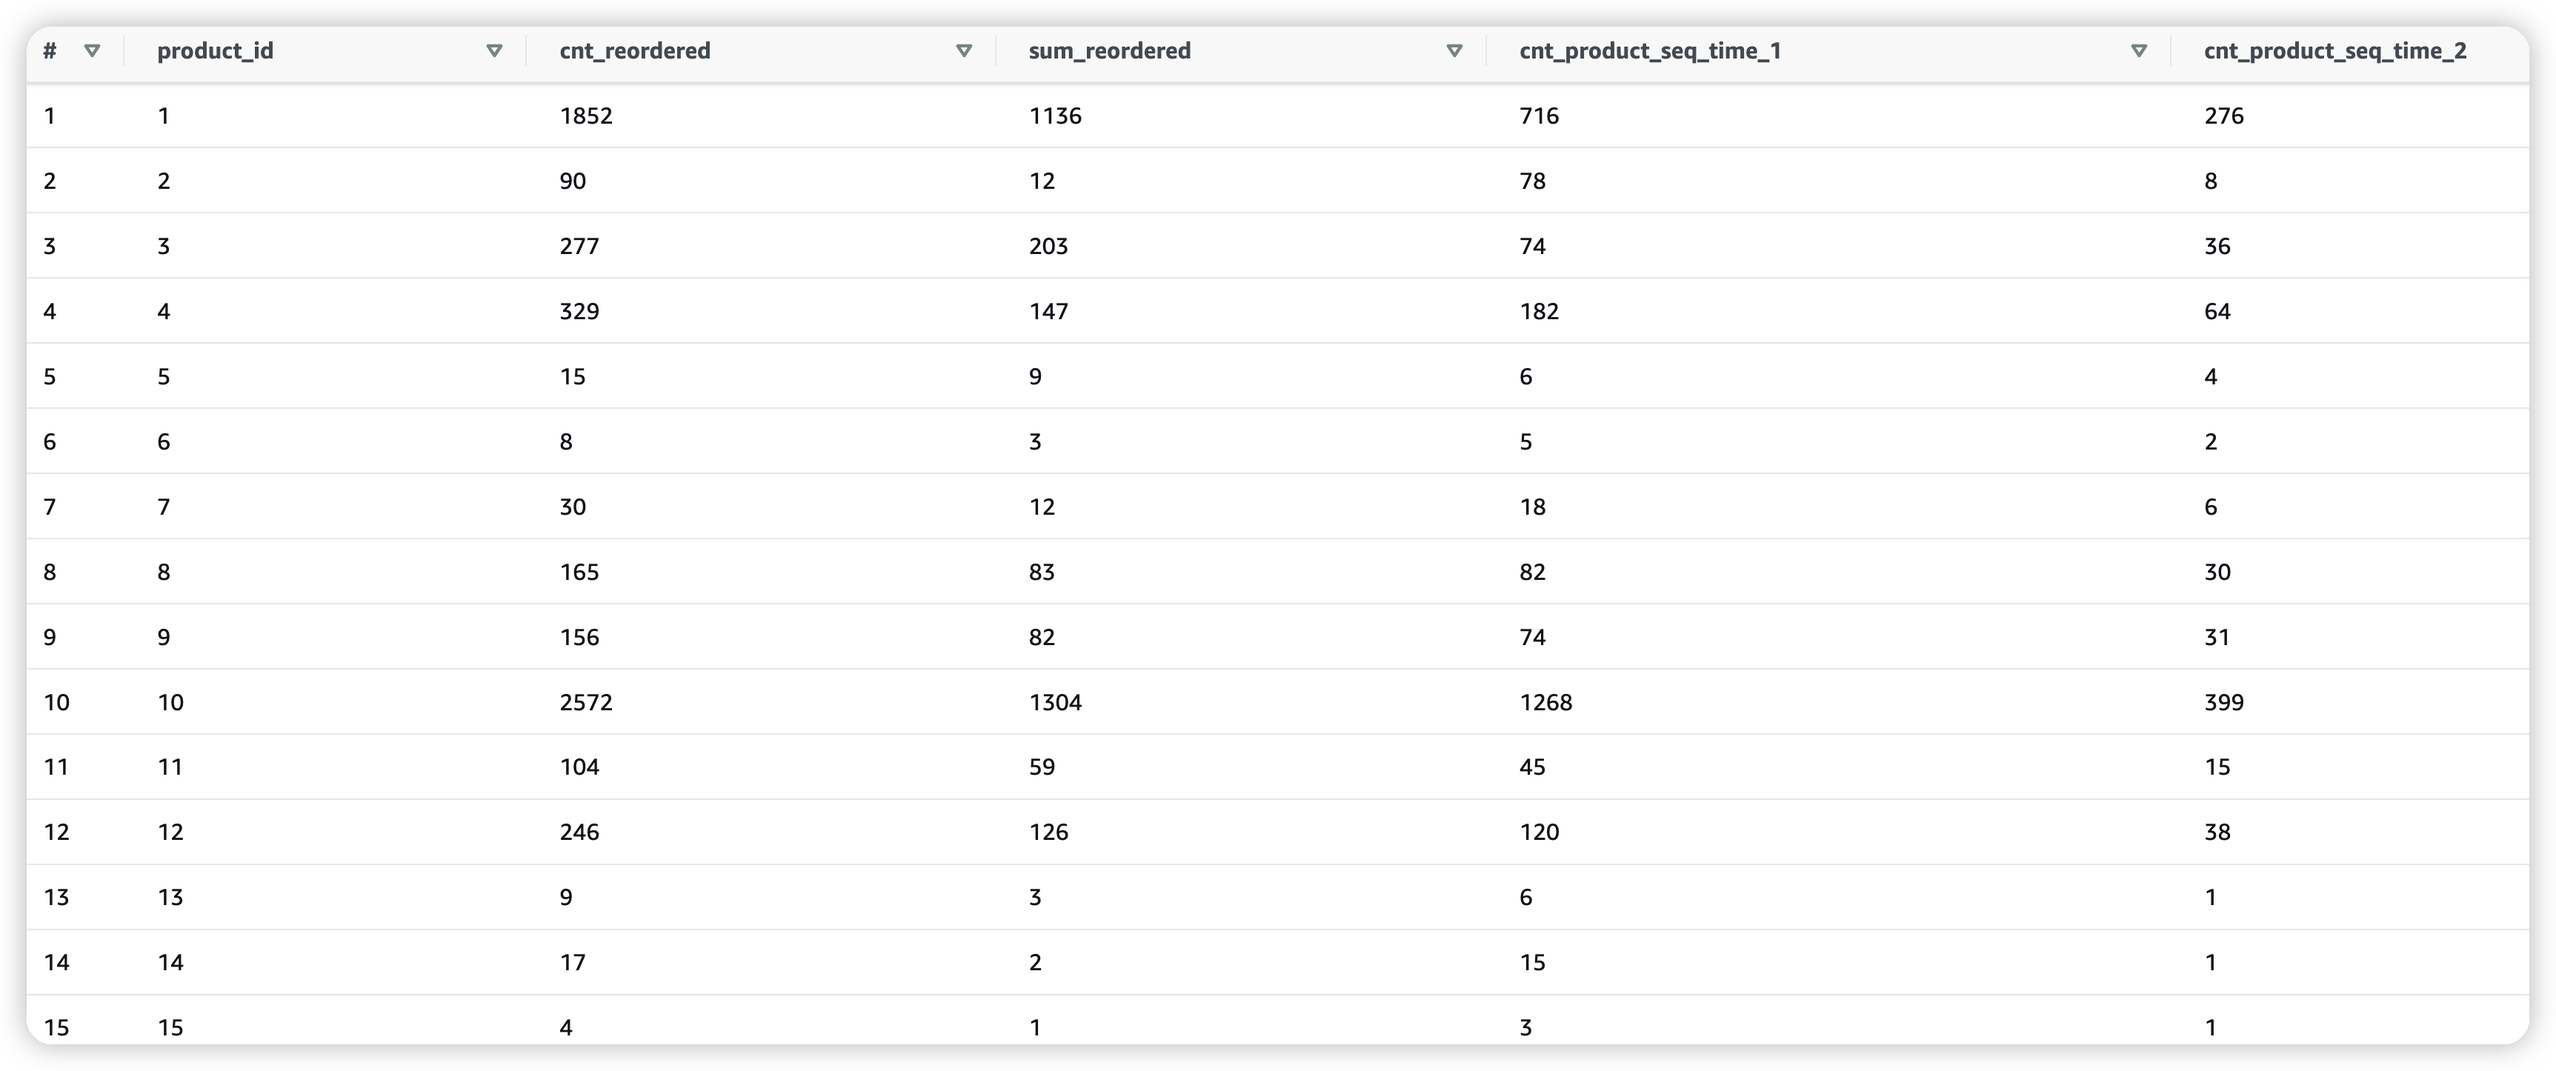
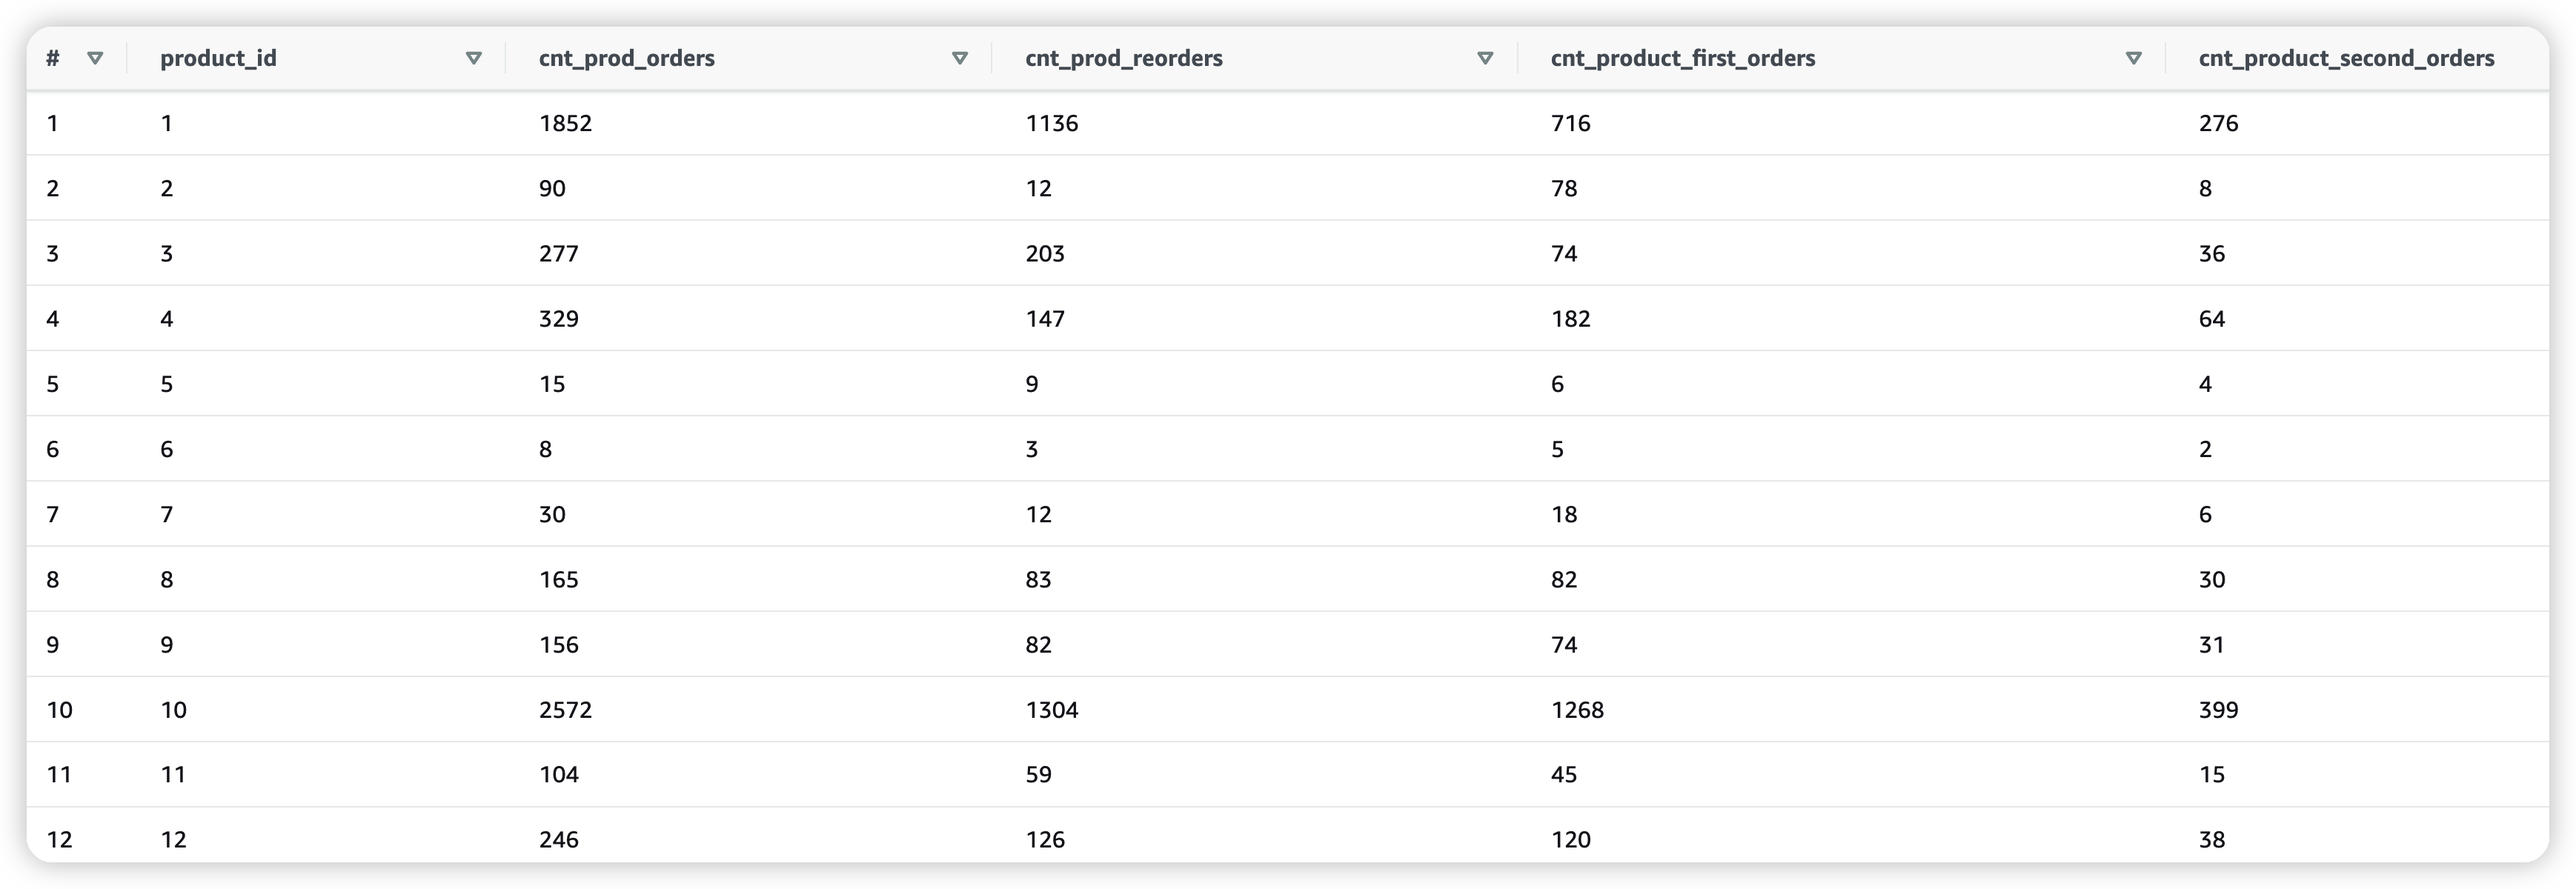
remove order by

diff --git a/part2/SQL.md b/part2/SQL.md
@@ -14,10 +14,9 @@ WHERE a.eval_set = 'prior');
 
 ### 2. Create a SQL query (user_features_1). Based on table orders, for each user, calculate the max order_number, the sum of days_since_prior_order and the average of days_since_prior_order.
 ```sql
-select user_id, max(order_number) AS max_ord_num, sum(days_since_prior_order) AS sum_of_days, round(sum(days_since_prior_order)/count(user_id),2) AS average_days_since_prior_order
+select user_id, max(order_number) AS max_ord_num, sum(days_since_prior_order) AS sum_of_days, round(AVG(days_since_prior_order),2) AS average_days_since_prior_order
 from orders
-group by user_id
-order by user_id;
+group by user_id;
 ```
 ### Resulting table user_features_1 preview:
 ![](assets/images/q2.png)
@@ -29,8 +28,7 @@ round(CAST(sum(CASE WHEN reordered = 1 THEN 1 ELSE 0 END) AS double)/count(CASE
                    WHEN order_number > 1 THEN 1
                    END),4) AS reordered_ratio
 from order_products_prior
-group by user_id
-order by user_id;
+group by user_id;
 ```
 ### Resulting table user_features_2 preview:
 ![](assets/images/q3.png)
@@ -40,8 +38,7 @@ order by user_id;
 select user_id, product_id, count(distinct order_id) AS total_number_of_orders, min(order_number) AS min_order_number, 
 max(order_number) AS max_order_number, round(avg(add_to_cart_order),2) AS avg_add_to_cart_order
 from order_products_prior
-group by user_id, product_id
-order by user_id, product_id;
+group by user_id, product_id;
 ```
 ### Resulting table up_features preview:
 ![](assets/images/q4.png)
@@ -49,16 +46,14 @@ order by user_id, product_id;
 ### 5. Create a SQL query (prd_features). Based on table order_products_prior, first write a sql query to calculate the sequence of product purchase for each user, and name it product_seq_time (For example, if a user first time purchase a product A, mark it as 1. If it’s the second time a user purchases a product A, mark it as 2).Then on top of this query, for each product, calculate the count, sum of reordered, count of product_seq_time = 1 and count of product_seq_time = 2.
 ```sql
 -- subquery will generate the the sequence of product purchase for each user
-select product_id, count(reordered) AS cnt_reordered, sum(reordered) AS sum_reordered, 
-count(case when product_seq_time = 1 then 1 end) AS cnt_product_seq_time_1,
-count(case when product_seq_time = 2 then 1 end) AS cnt_product_seq_time_2
+select product_id, count(*) AS cnt_prod_orders, sum(reordered) AS cnt_prod_reorders, 
+count(case when product_seq_time = 1 then 1 end) AS cnt_product_first_orders,
+count(case when product_seq_time = 2 then 1 end) AS cnt_product_second_orders
 from 
 (select user_id, order_number, product_id, reordered,
-sum(1) over (partition by user_id, product_id order by user_id, order_number) AS product_seq_time
-from order_products_prior
-order by user_id, order_number) a
-group by product_id
-order by product_id;
+sum(1) over (partition by user_id, product_id order by order_number) AS product_seq_time
+from order_products_prior) a
+group by product_id;
 ```
 ### Resulting table up_features preview:
 ![](assets/images/q5.png)
